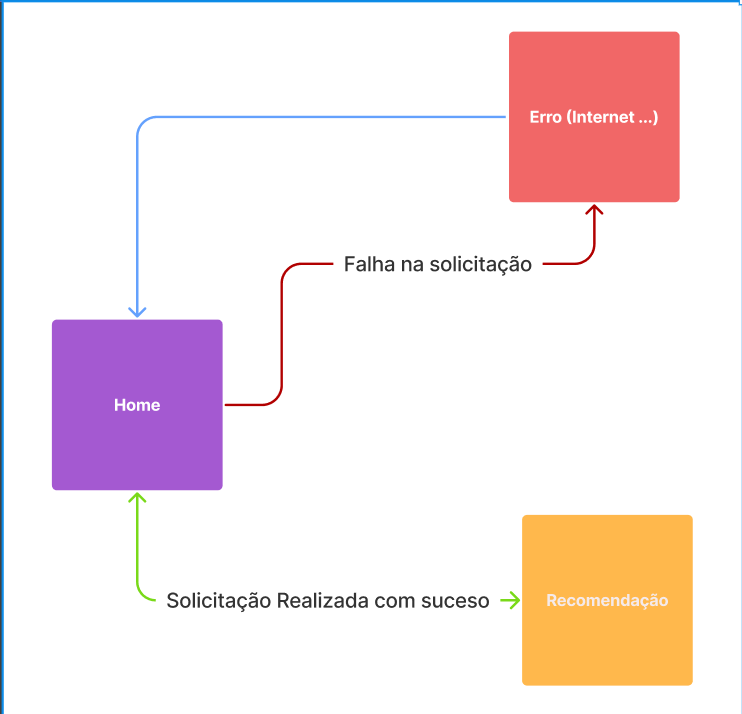
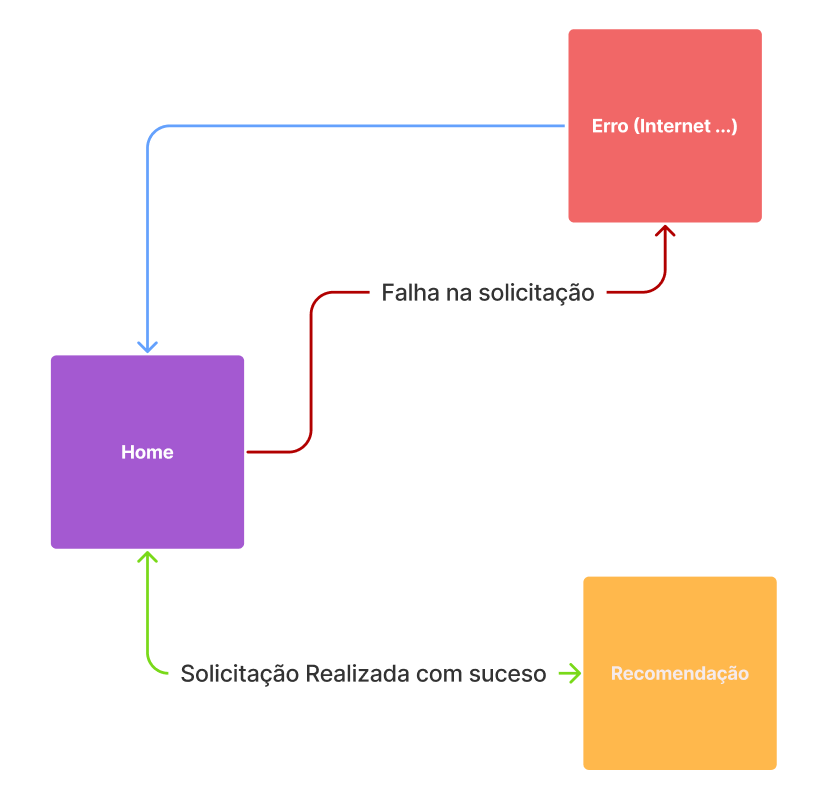
readme

diff --git a/README.md b/README.md
@@ -30,7 +30,7 @@ Descrição aqui...
 
 <div align="center">
   <div style="display: flex; align-items: flex-start;">
-    <img src="./imgs/readme/site-map.png" title="Site map" width="60%"/>
+    <img src="./imgs/readme/site-map.png" title="Site map" width="70%"/>
     <img src="./imgs/readme/home.png" title="Tela inicial" width="20%"/>
     <img src="./imgs/readme/end.png" title="Tela de recomendação"width="20%"/>
     <img src="./imgs/readme/off-line.png" title="Tela off-line" width="20%"/>
